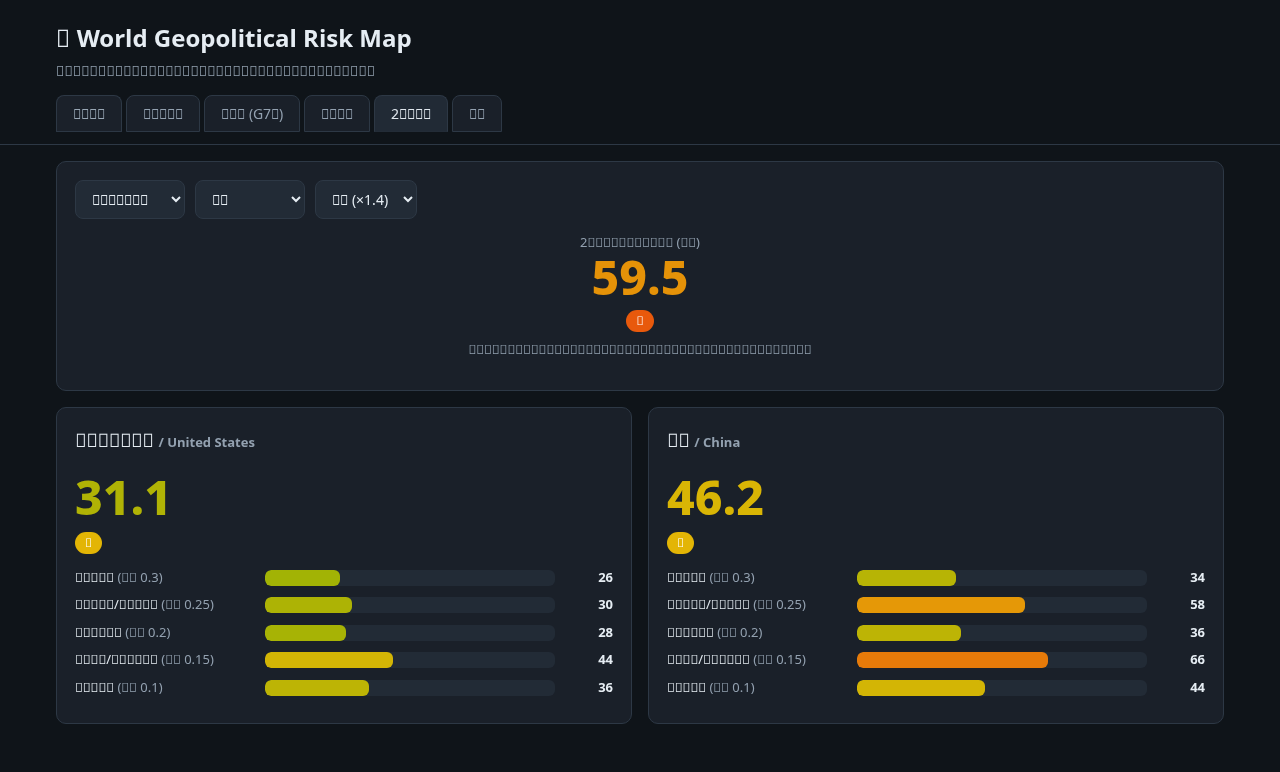
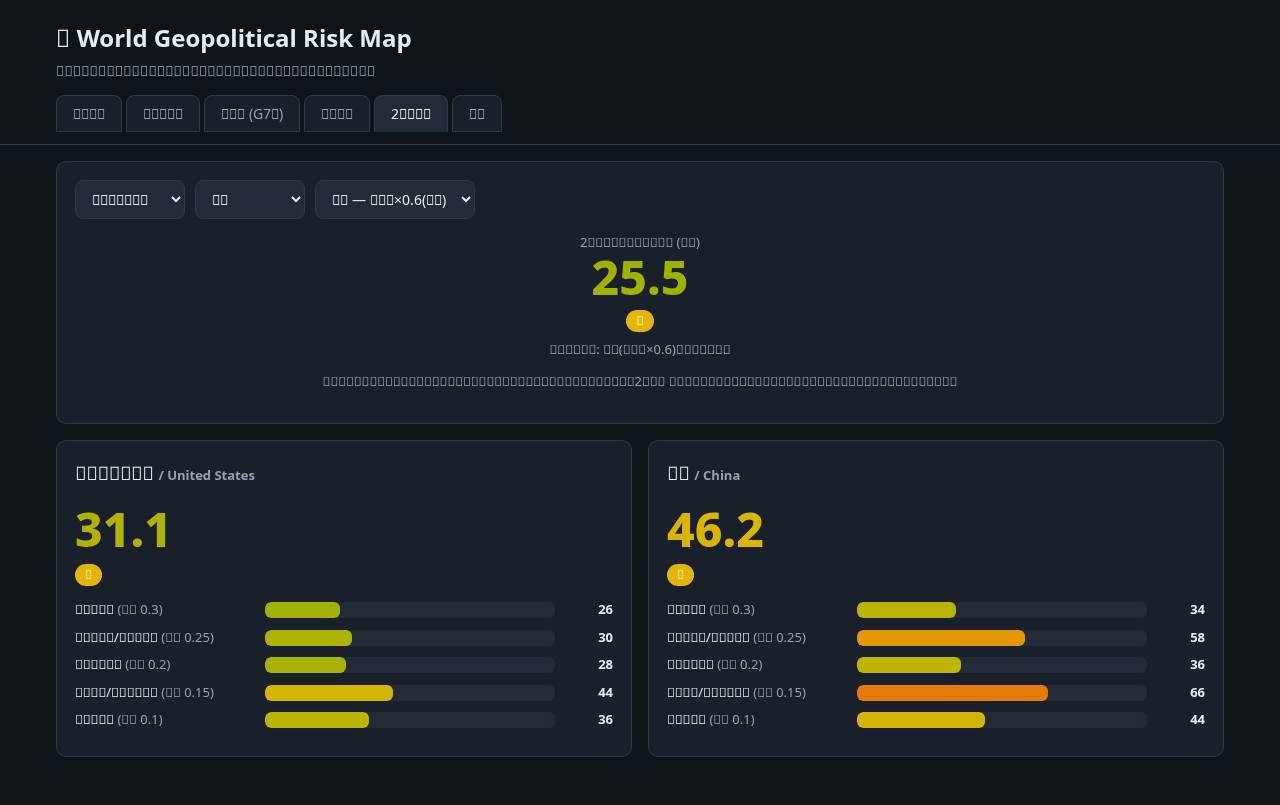
fix: auto-detect bilateral relation in compare view with optional override (closes #8)
- 既定で2国の関係を getRelation() で自動判定し係数を適用
- プルダウンを「関係の前提」に変更: 先頭=自動判定(結果表示)、以降=手動上書き(係数・効果を明記)
- 国の組を変更したら自動判定へリセット
- 適用中の関係区分・係数・自動/手動の別を画面に明示
- E2E 2件を追加/更新 (計 e2e 9件)

diff --git a/src/views/CompareView.tsx b/src/views/CompareView.tsx
@@ -1,14 +1,26 @@
-import { useState } from 'react';
+import { useMemo, useState } from 'react';
 import type { RelationType, ScoredCountry } from '../domain/types';
 import { bilateralRisk, classifyBand } from '../domain/risk';
+import { getRelation } from '../data/relations';
+import { RELATION_FACTORS } from '../domain/constants';
 import { BandPill } from '../components/BandPill';
 import { ComponentBars } from '../components/ComponentBars';
 import { riskColor } from '../components/colorScale';
 
-const RELATION_LABELS: Record<RelationType, string> = {
-  ally: '同盟 (×0.6)',
-  neutral: '中立 (×1.0)',
-  rival: '対立 (×1.4)',
+/** プルダウンの選択肢: 'auto' は2国から自動判定、それ以外は手動上書き */
+type RelationChoice = 'auto' | RelationType;
+
+const RELATION_NAMES: Record<RelationType, string> = {
+  ally: '同盟',
+  neutral: '中立',
+  rival: '対立',
+};
+
+/** 手動上書き肢のラベル(係数と効果を明記) */
+const OVERRIDE_LABELS: Record<RelationType, string> = {
+  ally: `同盟 — リスク×${RELATION_FACTORS.ally}(低減)`,
+  neutral: `中立 — リスク×${RELATION_FACTORS.neutral}`,
+  rival: `対立 — リスク×${RELATION_FACTORS.rival}(増大)`,
 };
 
 interface Props {
@@ -35,27 +47,43 @@ function CountryColumn({ c }: { c: ScoredCountry }) {
 export function CompareView({ countries }: Props) {
   const [idA, setIdA] = useState(countries.find((c) => c.id === 'USA')?.id ?? countries[0].id);
   const [idB, setIdB] = useState(countries.find((c) => c.id === 'CHN')?.id ?? countries[1].id);
-  const [relation, setRelation] = useState<RelationType>('rival');
+  // 既定は 'auto'(2国の関係をデータから自動判定)。ユーザーは任意で手動上書きできる。
+  const [choice, setChoice] = useState<RelationChoice>('auto');
 
   const a = countries.find((c) => c.id === idA)!;
   const b = countries.find((c) => c.id === idB)!;
   const sameCountry = idA === idB;
-  const bilateral = bilateralRisk(a, b, relation);
+
+  // 2国から自動判定される関係区分
+  const autoRelation = useMemo(() => getRelation(idA, idB), [idA, idB]);
+  // 実際に適用する関係区分(auto のときは自動判定結果)
+  const effectiveRelation: RelationType = choice === 'auto' ? autoRelation : choice;
+  const bilateral = bilateralRisk(a, b, effectiveRelation);
 
   const options = [...countries].sort((x, y) => x.nameJa.localeCompare(y.nameJa, 'ja'));
+
+  // 国の組を変更したら関係設定を自動判定へリセットする
+  const changeA = (id: string) => {
+    setIdA(id);
+    setChoice('auto');
+  };
+  const changeB = (id: string) => {
+    setIdB(id);
+    setChoice('auto');
+  };
 
   return (
     <section>
       <div className="panel" style={{ marginBottom: 16 }}>
         <div className="controls">
-          <select value={idA} onChange={(e) => setIdA(e.target.value)} aria-label="国A">
+          <select value={idA} onChange={(e) => changeA(e.target.value)} aria-label="国A">
             {options.map((c) => (
               <option key={c.id} value={c.id} disabled={c.id === idB}>
                 {c.nameJa}
               </option>
             ))}
           </select>
-          <select value={idB} onChange={(e) => setIdB(e.target.value)} aria-label="国B">
+          <select value={idB} onChange={(e) => changeB(e.target.value)} aria-label="国B">
             {options.map((c) => (
               <option key={c.id} value={c.id} disabled={c.id === idA}>
                 {c.nameJa}
@@ -63,15 +91,15 @@ export function CompareView({ countries }: Props) {
             ))}
           </select>
           <select
-            value={relation}
-            onChange={(e) => setRelation(e.target.value as RelationType)}
-            aria-label="2国間の関係"
+            value={choice}
+            onChange={(e) => setChoice(e.target.value as RelationChoice)}
+            aria-label="関係の前提"
+            title="2国間リスクの算出に用いる関係係数。既定は2国から自動判定します。"
           >
-            {(Object.keys(RELATION_LABELS) as RelationType[]).map((r) => (
-              <option key={r} value={r}>
-                {RELATION_LABELS[r]}
-              </option>
-            ))}
+            <option value="auto">関係: 自動判定({RELATION_NAMES[autoRelation]})</option>
+            <option value="rival">{OVERRIDE_LABELS.rival}</option>
+            <option value="neutral">{OVERRIDE_LABELS.neutral}</option>
+            <option value="ally">{OVERRIDE_LABELS.ally}</option>
           </select>
         </div>
 
@@ -89,10 +117,17 @@ export function CompareView({ countries }: Props) {
               <div style={{ marginTop: 6 }}>
                 <BandPill band={classifyBand(bilateral)} />
               </div>
+              <p className="muted" style={{ marginTop: 8 }}>
+                適用中の関係:{' '}
+                <strong>{RELATION_NAMES[effectiveRelation]}</strong>
+                (リスク×{RELATION_FACTORS[effectiveRelation]})
+                {choice === 'auto' ? '〔自動判定〕' : '〔手動上書き〕'}
+              </p>
             </>
           )}
           <p className="muted" style={{ marginTop: 8 }}>
-            両国の「対外関係」「紛争・暴力」の平均に関係係数を乗じて算出。国の順序には依存しません。
+            両国の「対外関係」「紛争・暴力」の平均に関係係数を乗じて算出します。関係は既定で2国から
+            自動判定され、プルダウンで任意に上書きできます。国の順序には依存しません。
           </p>
         </div>
       </div>

diff --git a/e2e/app.spec.ts b/e2e/app.spec.ts
@@ -64,11 +64,32 @@ test.describe('World Geopolitical Risk Map', () => {
     );
   });
 
-  test('2国間比較タブ: スコアが表示される', async ({ page }) => {
+  test('2国間比較タブ: スコアと関係自動判定が表示される (Issue #8)', async ({ page }) => {
     await page.goto('/');
     await page.getByRole('tab', { name: '2国間比較' }).click();
     await expect(page.getByText('2国間地政学リスクスコア (対称)')).toBeVisible();
+    // 既定は米×中 → 関係は自動判定で「対立」
+    const relSelect = page.getByLabel('関係の前提');
+    await expect(relSelect).toHaveValue('auto');
+    // 自動判定の option ラベルに「対立」が含まれる
+    await expect(relSelect.locator('option[value="auto"]')).toContainText('自動判定(対立)');
+    await expect(page.getByText(/適用中の関係:/)).toBeVisible();
+    await expect(page.getByText(/〔自動判定〕/)).toBeVisible();
+    // 手動上書き(同盟)に変更するとラベルが手動に変わる
+    await relSelect.selectOption('ally');
+    await expect(page.getByText(/〔手動上書き〕/)).toBeVisible();
     await page.screenshot({ path: 'e2e-shots/04-compare.png', fullPage: true });
+  });
+
+  test('2国間比較: 国を変えると関係が自動判定にリセットされる (Issue #8)', async ({ page }) => {
+    await page.goto('/');
+    await page.getByRole('tab', { name: '2国間比較' }).click();
+    const relSelect = page.getByLabel('関係の前提');
+    await relSelect.selectOption('neutral');
+    await expect(relSelect).toHaveValue('neutral');
+    // 国Aを変更 → auto にリセット
+    await page.getByLabel('国A').selectOption('JPN');
+    await expect(relSelect).toHaveValue('auto');
   });
 
   test('関係性タブ(G7等): 起点国から見た関係一覧が表示される (Issue #7)', async ({ page }) => {
